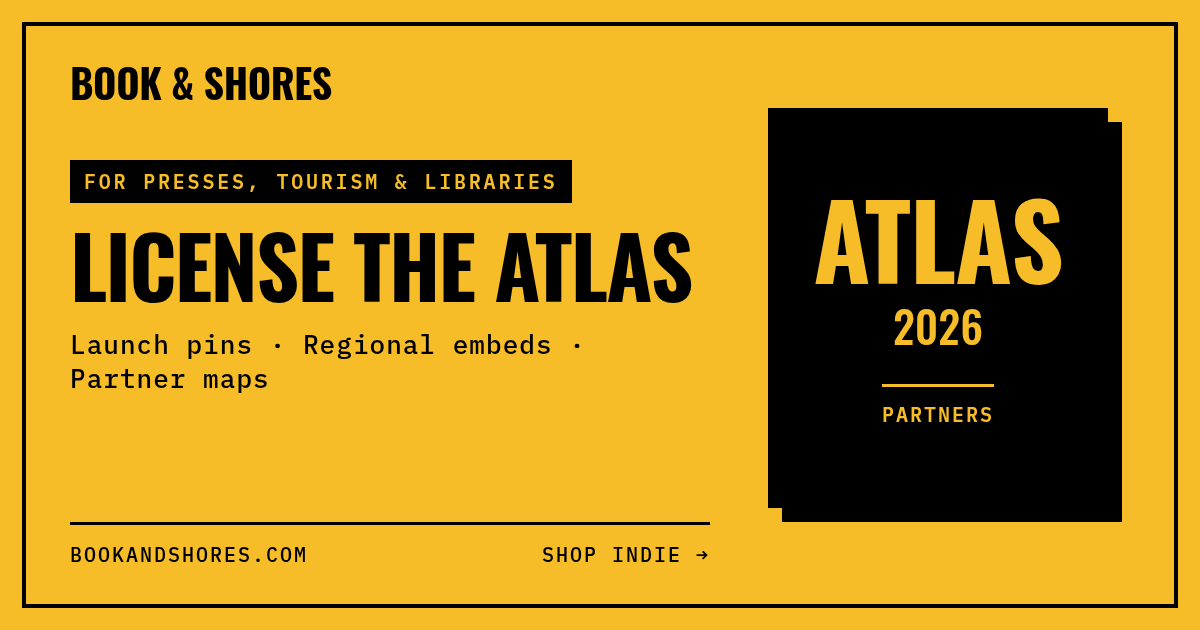
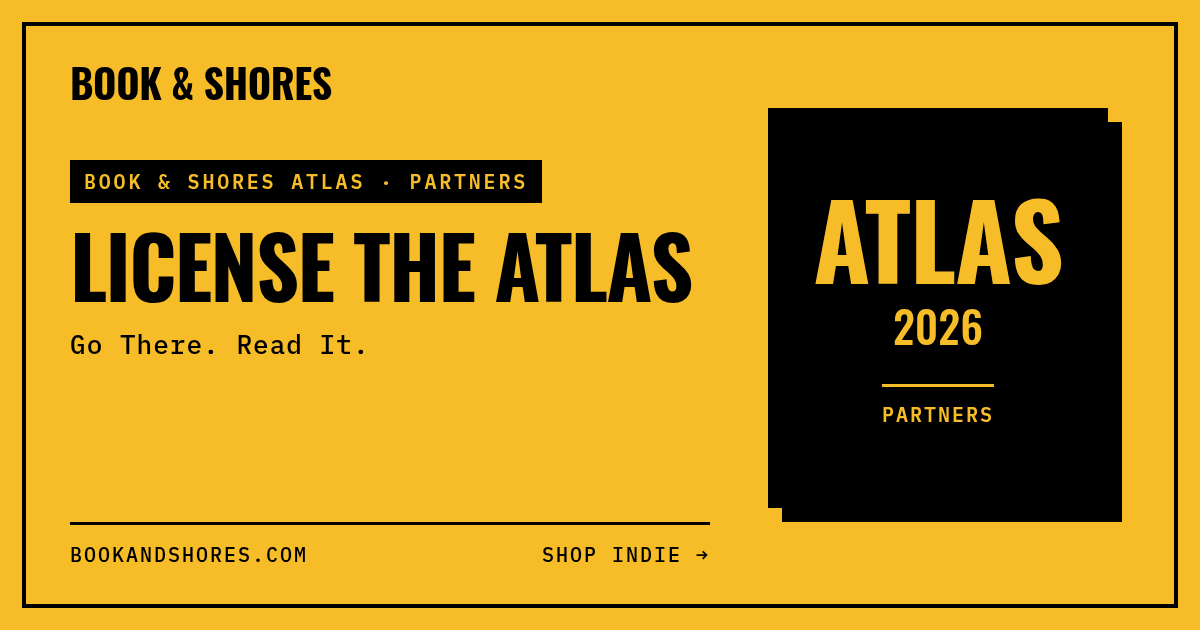
License page: name it Book & Shores Atlas, add 'Go There. Read It.' kicker, short 'Why the Atlas?' note, partner launch offer wording, new og card

Changed region(s): [[0.0617, 0.5127, 0.4625, 0.6333], [0.0925, 0.2413, 0.4933, 0.3317]]

diff --git a/license-the-atlas.html b/license-the-atlas.html
@@ -8,27 +8,27 @@
     <link rel="icon" type="image/png" sizes="32x32" href="/favicon-32.png">
     <link rel="apple-touch-icon" href="/apple-touch-icon.png">
     <link rel="manifest" href="site.webmanifest">
-    <title>License the Atlas: Partner Pins, Embeds and Custom Maps | Book &amp; Shores</title>
-    <meta name="description" content="The B&amp;S Atlas maps books to their stated settings, with a cited source for every pin. Publishers, authors, illustrators, festivals, libraries and tourism boards can pin a book, embed a regional Atlas or commission a custom map.">
+    <title>License the Book &amp; Shores Atlas: Partner Pins, Embeds and Custom Maps · Go There. Read It.</title>
+    <meta name="description" content="The Book &amp; Shores Atlas maps books to their stated settings, with a cited source for every pin. Go There. Read It. Publishers, authors, illustrators, festivals, libraries and tourism boards can pin a book, embed a regional Atlas or commission a custom map.">
     <link rel="canonical" href="https://bookandshores.com/license-the-atlas.html">
     <meta property="og:type" content="website">
-    <meta property="og:title" content="License the Atlas | Book &amp; Shores">
-    <meta property="og:description" content="The B&amp;S Atlas maps books to their stated settings, with a cited source for every pin. Publishers, authors, illustrators, festivals, libraries and tourism boards can pin a book, embed a regional Atlas or commission a custom map.">
+    <meta property="og:title" content="License the Book &amp; Shores Atlas · Go There. Read It.">
+    <meta property="og:description" content="The Book &amp; Shores Atlas maps books to their stated settings, with a cited source for every pin. Go There. Read It. Publishers, authors, illustrators, festivals, libraries and tourism boards can pin a book, embed a regional Atlas or commission a custom map.">
     <!-- link-preview:start -->
     <meta property="og:image" content="https://bookandshores.com/og/license-the-atlas.png">
     <meta property="og:image:width" content="1200">
     <meta property="og:image:height" content="630">
-    <meta property="og:image:alt" content="License the B&amp;S Atlas: partner pins, regional embeds and custom maps from Book &amp; Shores">
+    <meta property="og:image:alt" content="License the Book &amp; Shores Atlas: partner pins, regional embeds and custom maps. Go There. Read It.">
     <meta name="twitter:card" content="summary_large_image">
     <meta name="twitter:site" content="@bookandshores">
     <meta name="twitter:image" content="https://bookandshores.com/og/license-the-atlas.png">
-    <meta name="twitter:image:alt" content="License the B&amp;S Atlas: partner pins, regional embeds and custom maps from Book &amp; Shores">
+    <meta name="twitter:image:alt" content="License the Book &amp; Shores Atlas: partner pins, regional embeds and custom maps. Go There. Read It.">
     <!-- link-preview:end -->
     <meta property="og:url" content="https://bookandshores.com/license-the-atlas.html">
     <link rel="preconnect" href="https://fonts.googleapis.com">
     <link rel="preconnect" href="https://fonts.gstatic.com" crossorigin>
     <link href="https://fonts.googleapis.com/css2?family=Oswald:wght@400;500;700&family=IBM+Plex+Mono:wght@400;500;600&display=swap" rel="stylesheet">
-    <script type="application/ld+json">{"@context":"https://schema.org","@type":"WebPage","name":"License the Atlas","url":"https://bookandshores.com/license-the-atlas.html","description":"Partner pins, regional embeds and custom literary maps from the B&S Atlas, by Book & Shores, an independent bookstore.","publisher":{"@type":"Organization","name":"Book & Shores","url":"https://bookandshores.com/","email":"readme@bookandshores.com"}}</script>
+    <script type="application/ld+json">{"@context":"https://schema.org","@type":"WebPage","name":"License the Book & Shores Atlas","url":"https://bookandshores.com/license-the-atlas.html","description":"Partner pins, regional embeds and custom literary maps from the Book & Shores Atlas (Go There. Read It.), by Book & Shores, an independent bookstore.","publisher":{"@type":"Organization","name":"Book & Shores","url":"https://bookandshores.com/","email":"readme@bookandshores.com"}}</script>
     <style>
         :root {
             --yellow: #f6bd28;
@@ -202,6 +202,7 @@
             border: 4px solid var(--black); border-radius: 14px; box-shadow: 10px 10px 0 var(--black); }
         .lic-eyebrow { font-size: 0.85rem; font-weight: 600; letter-spacing: 0.16em; text-transform: uppercase; }
         .lic-hero h2 { font-size: clamp(2.6rem, 8vw, 4.6rem); text-transform: uppercase; line-height: 0.95; margin: 0.6rem 0 1rem; }
+        .lic-kicker { font-family: 'Oswald', sans-serif; font-weight: 700; font-size: clamp(1.4rem, 3.6vw, 2rem); letter-spacing: 0.04em; text-transform: uppercase; margin: -0.2rem 0 1rem; }
         .lic-hero p.lede { max-width: 680px; margin: 0 auto; }
         .stats { display: grid; grid-template-columns: repeat(4, minmax(0,1fr)); gap: 1rem; max-width: 1000px; margin: 0 auto 3.5rem; }
         .stat { background: var(--black); color: var(--yellow); border-radius: 10px; padding: 1.1rem 0.6rem; text-align: center; }
@@ -238,9 +239,10 @@
     </header>
     <main>
         <section class="lic-hero" aria-labelledby="lic-title">
-            <p class="lic-eyebrow">B&amp;S Atlas · Partners</p>
+            <p class="lic-eyebrow">Book &amp; Shores Atlas · Partners</p>
             <h2 id="lic-title">License the Atlas</h2>
-            <p class="lede">The B&amp;S Atlas is Earth's curated atlas of books, each pinned to its stated setting and sourced, made by Book &amp; Shores, an independent bookstore. Publishers, authors, artists and illustrators, festivals, libraries and tourism boards can put their books and their places on it.</p>
+            <p class="lic-kicker">Go There. Read It.</p>
+            <p class="lede">The Book &amp; Shores Atlas is Earth's curated atlas of books, each pinned to its stated setting and sourced, made by Book &amp; Shores, an independent bookstore. Publishers, authors, artists and illustrators, festivals, libraries and tourism boards can put their books and their places on it.</p>
         </section>
 
         <div class="stats" aria-label="The Atlas today">
@@ -332,9 +334,9 @@
             </article>
         </div>
 
-        <p class="intro-text" id="why-us"><strong>Why us:</strong> a Launch Pin costs less than a single spot in many book newsletters, and it doesn't expire. A newsletter blast is gone in a day; a pin keeps the book in front of readers exploring places and planning trips. Each pin is listed on its place's own page with the book, its setting and the source, written so AI search tools like ChatGPT, Perplexity and Google's AI answers can find and cite it, though no one can guarantee they will.</p>
+        <p class="intro-text" id="why-us"><strong>Why the Atlas?</strong> A Launch Pin costs less than one book-newsletter spot, and it never expires, so your book keeps meeting readers who explore its place. Every pin has its own sourced page, built for AI search tools to find and cite.</p>
 
-        <p class="intro-text"><strong>Founding partners:</strong> the first three partners get 50% off their first year. Presses can pay half of a Launch Pin with a print review copy of the book.</p>
+        <p class="intro-text"><strong>Partner launch offer:</strong> to open the licensing program, the first three licensing partners get 50% off their first year. Presses can pay half of a Launch Pin with a print review copy of the book.</p>
 
         <section class="section" aria-labelledby="rules-title">
             <h2 id="rules-title">The rules stay the same</h2>

diff --git a/scripts/make_link_cards.py b/scripts/make_link_cards.py
@@ -83,9 +83,9 @@ EVENTS = [
     dict(page="epicfest-2026", label="Charlotte · Free Kids' Festival", title="EpicFest 2026",
          by="8 visiting authors & illustrators", big="NOV 7", small="ImaginOn",
          alt="EpicFest 2026 authors' books, a Book & Shores reading list"),
-    dict(page="license-the-atlas", label="For Presses, Tourism & Libraries", title="License the Atlas",
-         by="Launch pins · Regional embeds · Partner maps", big="ATLAS", small="Partners",
-         alt="License the B&S Atlas: partner pins, regional embeds and custom maps from Book & Shores"),
+    dict(page="license-the-atlas", label="Book & Shores Atlas · Partners", title="License the Atlas",
+         by="Go There. Read It.", big="ATLAS", small="Partners",
+         alt="License the Book & Shores Atlas: partner pins, regional embeds and custom maps. Go There. Read It."),
 ]
 
 FONTS = f"""
